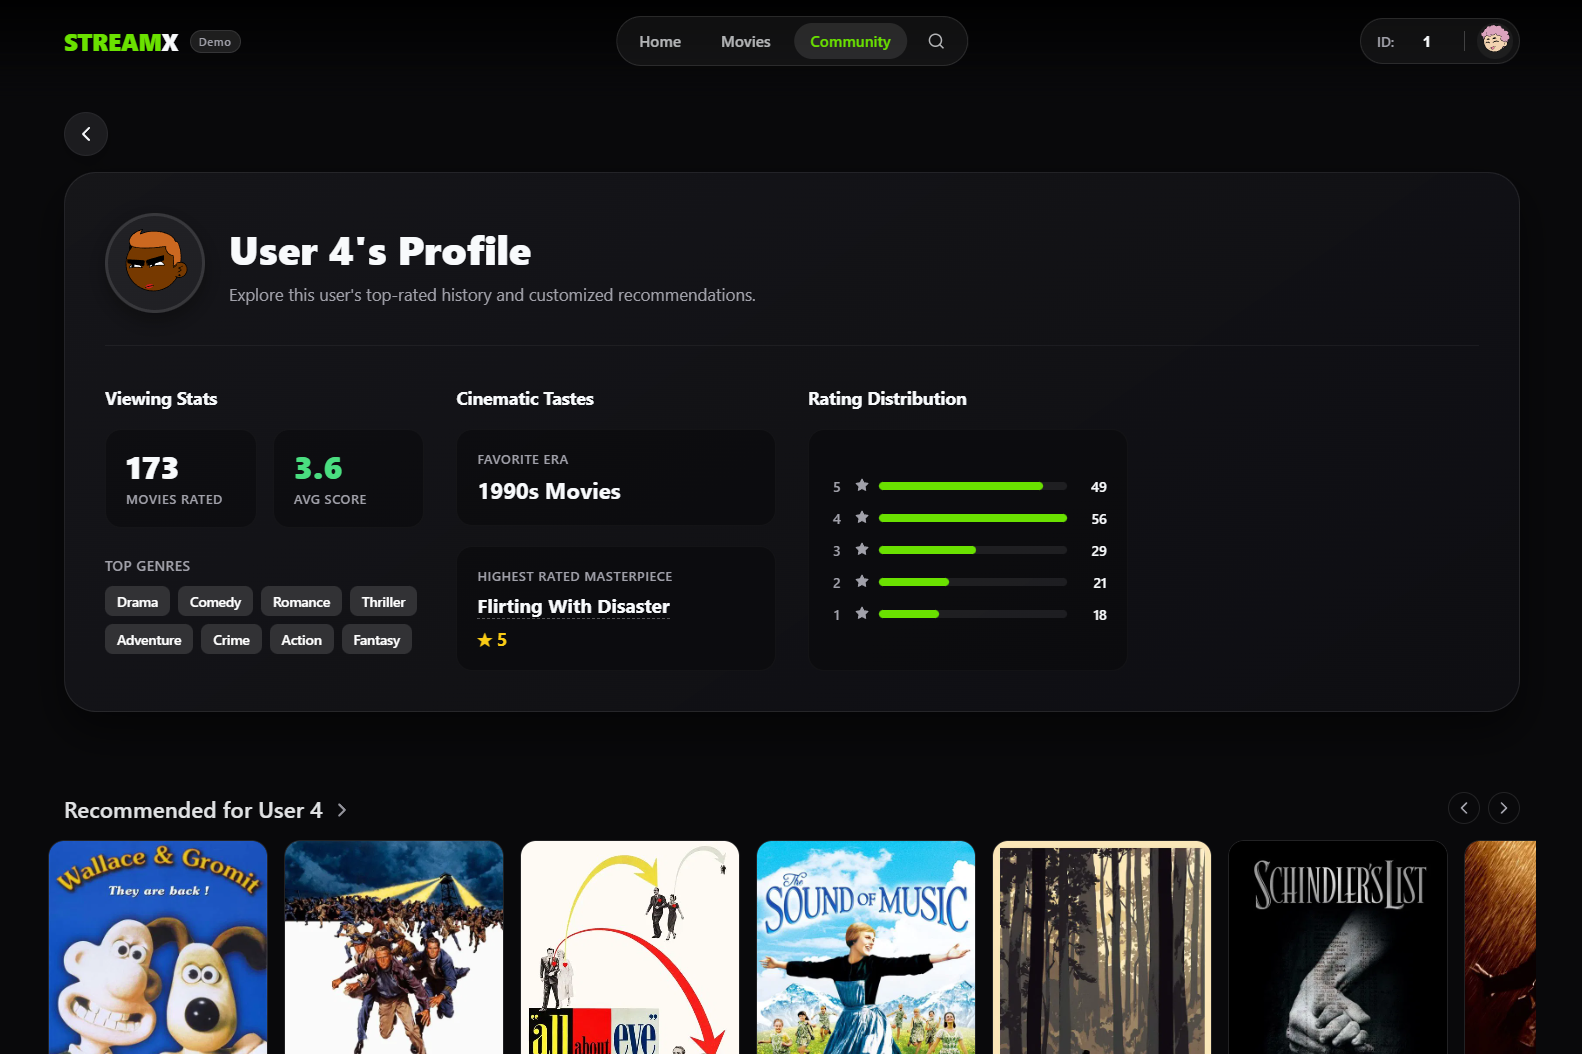
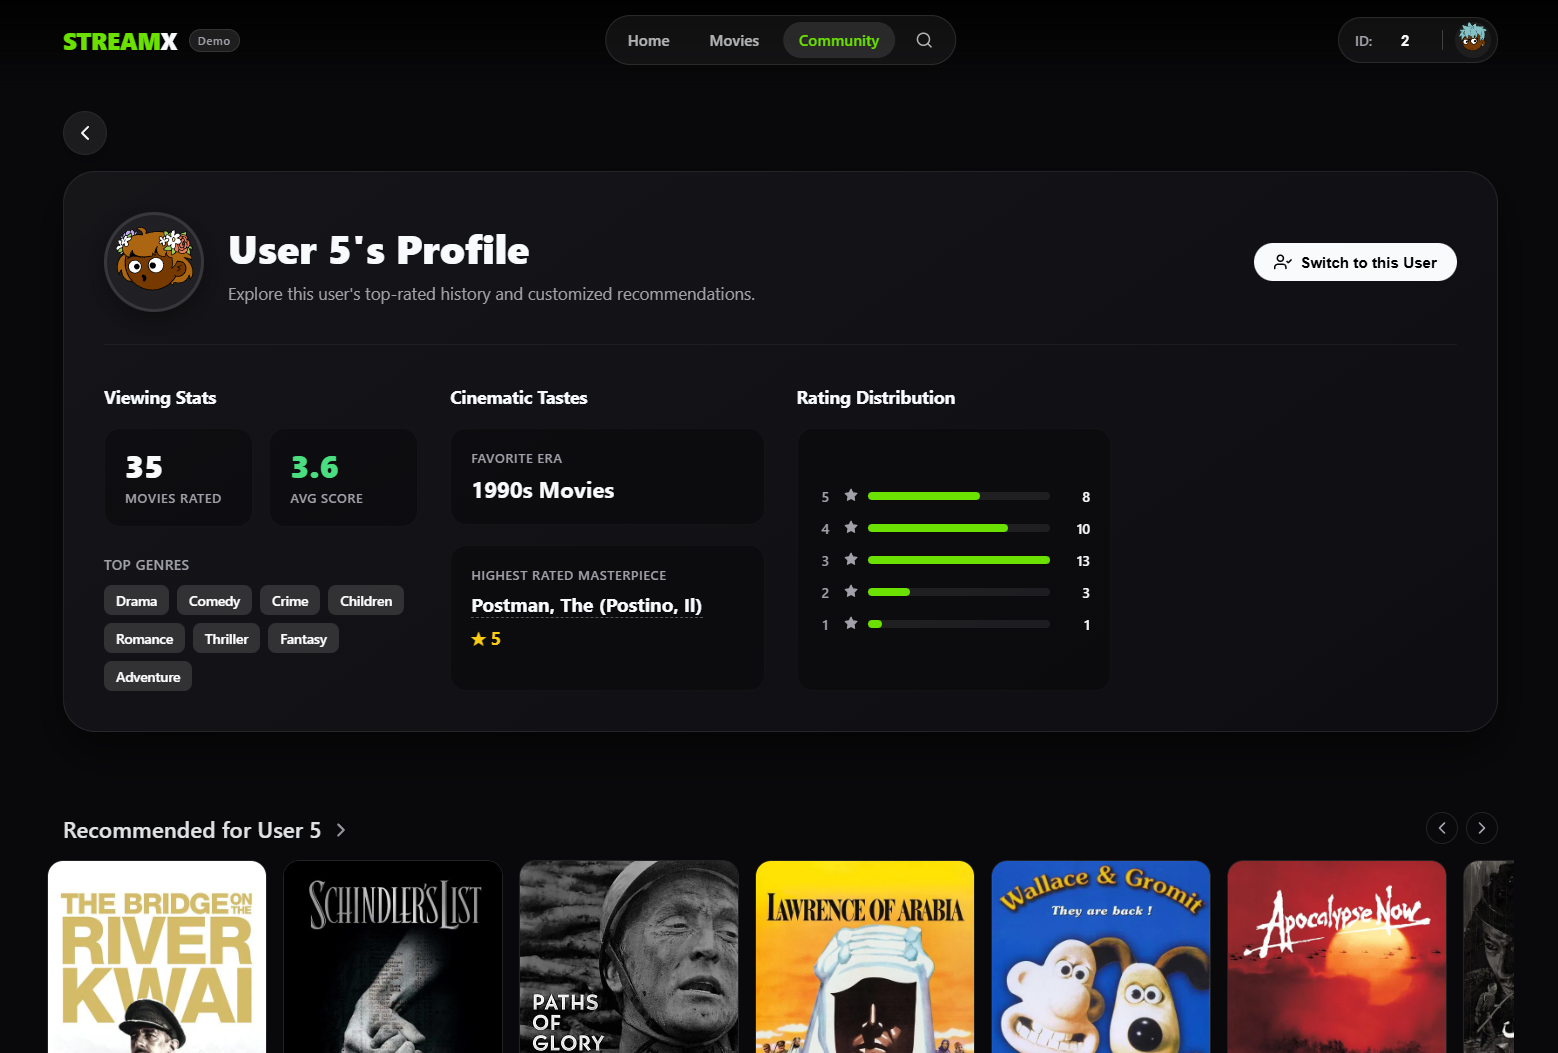
Add a 'switch user' button in User Profile page.

diff --git a/frontend/components/user-profile-actions.tsx b/frontend/components/user-profile-actions.tsx
@@ -1,0 +1,48 @@
+"use client";
+
+import { useUser } from "../context/user-context";
+
+export default function UserProfileActions({ profileUserId }: { profileUserId: number }) {
+  const { userId, setUserId } = useUser();
+  const isCurrentUser = userId === profileUserId;
+
+  if (isCurrentUser) {
+    return (
+      <div style={{
+        background: "rgba(106, 225, 0, 0.1)",
+        color: "var(--brand)",
+        padding: "8px 16px",
+        borderRadius: "99px",
+        fontSize: "0.9rem",
+        fontWeight: 600,
+        border: "1px solid rgba(106, 225, 0, 0.2)",
+        display: "flex",
+        alignItems: "center",
+        gap: "6px"
+      }}>
+        <svg width="16" height="16" viewBox="0 0 24 24" fill="none" stroke="currentColor" strokeWidth="2" strokeLinecap="round" strokeLinejoin="round">
+          <path d="M20 6L9 17l-5-5"></path>
+        </svg>
+        Current User
+      </div>
+    );
+  }
+
+  return (
+    <button
+      onClick={() => setUserId(profileUserId)}
+      className="btn-primary"
+      style={{
+        padding: "10px 20px",
+        fontSize: "0.95rem",
+      }}
+    >
+      <svg width="18" height="18" viewBox="0 0 24 24" fill="none" stroke="currentColor" strokeWidth="2" strokeLinecap="round" strokeLinejoin="round">
+        <path d="M16 21v-2a4 4 0 0 0-4-4H5a4 4 0 0 0-4 4v2"></path>
+        <circle cx="8.5" cy="7" r="4"></circle>
+        <polyline points="17 11 19 13 23 9"></polyline>
+      </svg>
+      Switch to this User
+    </button>
+  );
+}

diff --git a/frontend/app/users/[id]/page.tsx b/frontend/app/users/[id]/page.tsx
@@ -2,6 +2,7 @@ import Link from "next/link";
 import { getUserHistory, getRecommendations } from "../../../lib/api";
 import MovieCardGrid from "../../../components/movie-card-grid";
 import BackButton from "../../../components/back-button";
+import UserProfileActions from "../../../components/user-profile-actions";
 
 type UserDetailPageProps = {
   params: {
@@ -96,12 +97,13 @@ export default async function UserDetailPage({ params }: UserDetailPageProps) {
                 style={{ width: "100%", height: "100%", borderRadius: "50%" }}
               />
             </div>
-            <div>
+            <div style={{ flex: 1 }}>
               <h1 style={{ margin: "0 0 8px 0", fontSize: "clamp(1.8rem, 5vw, 2.5rem)", fontWeight: 800 }}>User {userId}'s Profile</h1>
               <p style={{ color: "var(--text-subtle)", margin: 0, fontSize: "clamp(0.9rem, 3vw, 1.05rem)" }}>
                 Explore this user's top-rated history and customized recommendations.
               </p>
             </div>
+            <UserProfileActions profileUserId={userId} />
           </div>
 
           {/* Section 2: Movie Stats & Genres */}
